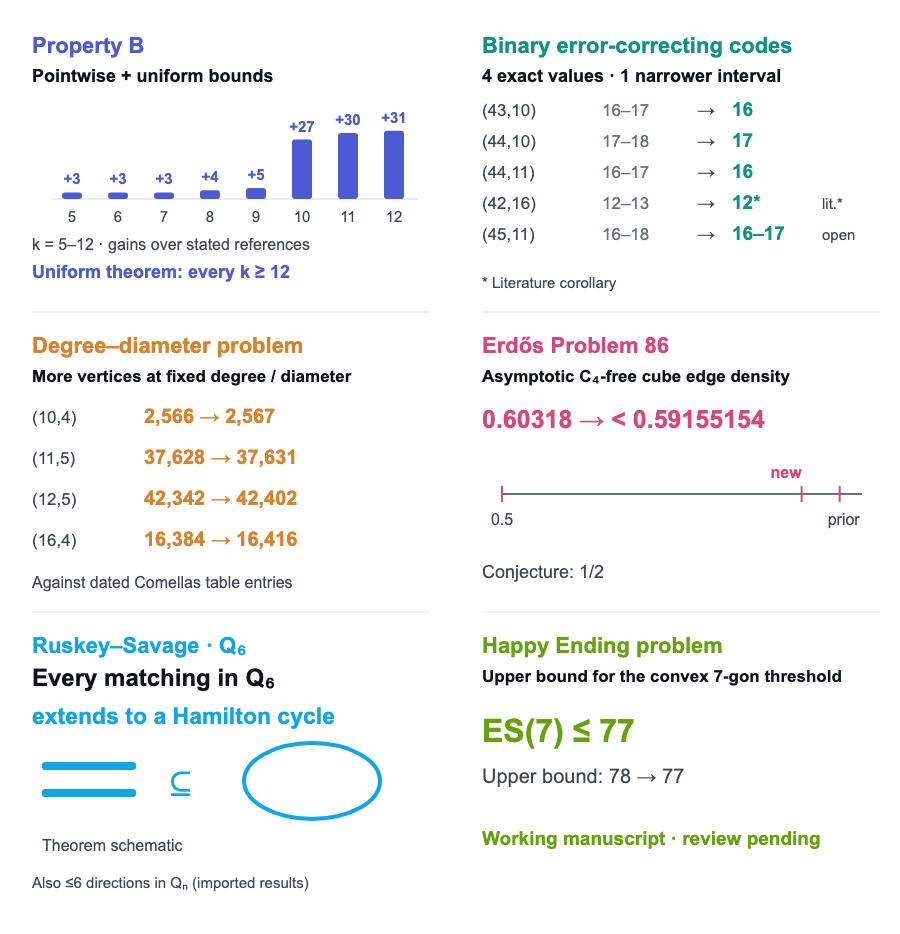
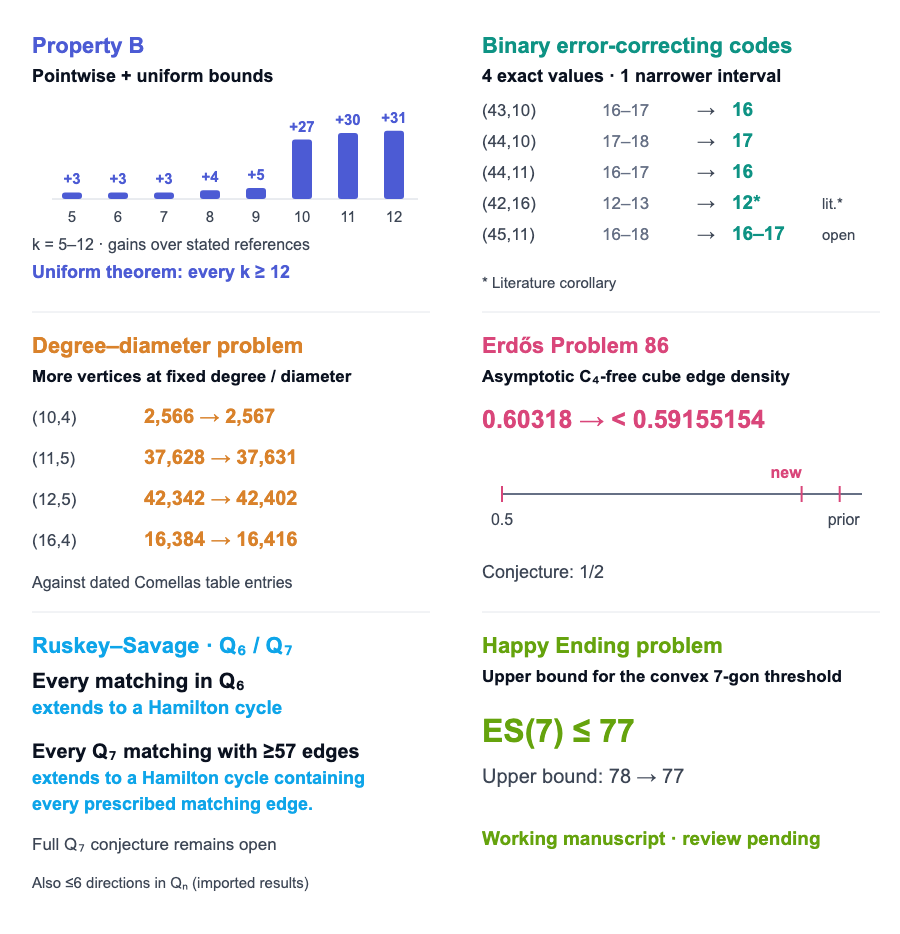
docs: refresh Q7 result overview and repair v5 evolution table

Changed region(s): [[0.0311, 0.6831, 0.4356, 0.9004], [0.0311, 0.9004, 0.3111, 0.9315]]

diff --git a/figures/mathrsi/results-overview/render.py b/figures/mathrsi/results-overview/render.py
@@ -40,13 +40,12 @@ def render(lang):
    t(X(.5),y+193,'0.5',16,anchor='middle');t(X(.59155154),y+146,'新 / new' if z else 'new',16,c,600,'end');t(X(.60318)+4,y+193,'参考' if z else 'prior',16,anchor='middle')
    t(x,y+246,'猜想值：1/2' if z else 'Conjecture: 1/2',18)
   elif key=='q6':
-   t(x,y+54,'Q₆ 中每一个匹配' if z else 'Every matching in Q₆',24,'#0B1220',600)
-   t(x,y+92,'均可扩展为 Hamilton 圈' if z else 'extends to a Hamilton cycle',23,c,650)
-   # theorem motif: matching inclusion, without a graph claiming universal evidence
-   rect(x+10,y+130,94,8,c);rect(x+10,y+157,94,8,c)
-   t(x+135,y+164,'⊆',42,c,500)
-   a.append(f'<ellipse cx="{x+280}" cy="{y+149}" rx="68" ry="38" fill="none" stroke="{c}" stroke-width="4"/>')
-   t(x+10,y+219,'定理示意' if z else 'Theorem schematic',16)
+   t(x,y+56,'Q₆ 中每一个匹配' if z else 'Every matching in Q₆',21,'#0B1220',600)
+   t(x,y+82,'均可扩展为 Hamilton 圈' if z else 'extends to a Hamilton cycle',19,c,600)
+   t(x,y+126,'Q₇ 中每个至少 57 边的匹配' if z else 'Every Q₇ matching with ≥57 edges',20,'#0B1220',600)
+   t(x,y+152,'均可扩展为 Hamilton 圈，' if z else 'extends to a Hamilton cycle containing',18,c,600)
+   t(x,y+178,'且保留匹配的每一条指定边。' if z else 'every prescribed matching edge.',18,c,600)
+   t(x,y+218,'完整 Q₇ 猜想仍开放' if z else 'Full Q₇ conjecture remains open',17)
    t(x,y+256,'亦含任意维 ≤6 方向推论（引用结果）' if z else 'Also ≤6 directions in Qₙ (imported results)',15)
   else:
    t(x,y+50,'凸七边形的强制阈值上界' if z else 'Upper bound for the convex 7-gon threshold',17,'#0B1220',550)

diff --git a/figures/mathrsi/results-overview/README.md b/figures/mathrsi/results-overview/README.md
@@ -17,7 +17,7 @@ Repository-relative source: `development/homepage-redesign-20261105/site/result-
 - ECC: five parameter rows preserve prior/result intervals. (42,16) is marked as literature corollary; (45,11) stays open. Case index: `case-studies/README.md#error-correcting-codes`.
 - DD: four dated Comellas comparisons. (10,4) checked2026-11-05; the other three accessed2026-11-03. A value table avoids exaggerating small gains with truncated bars. Details: homepage `dd-10-4.html` and `case-studies/degree-diameter/README.md`.
 - E86: density upper ceiling0.60318 to <0.59155154. Linear numberline0.5…0.61 marks the new/prior ceilings;1/2 remains conjectural. Source: `plugins/hypercube-extremal/archive/source/START_HERE.html`.
-- Q6: the universal matching-to-cycle statement is explicit; the inclusion motif is labelled theorem schematic. The≤6-direction consequence uses imported results. Source: `plugins/hypercube-hamilton/archive/source/Ruskey-Savage_Q6_研究报告.html`.
+- Q6 / Q7: every Q6 matching extends to a Hamilton cycle; every Q7 matching with at least 57 edges extends to a Hamilton cycle containing every prescribed matching edge. Full Q7 remains open. The ≤6-direction consequence uses imported results. Sources: `plugins/hypercube-hamilton/archive/source/Ruskey-Savage_Q6_研究报告.html` and `case-studies/ruskey-savage-q7/README.md`. Q7 research ran with v3 (local adaptation), and its methods feed v5; this graphic does not change the original verification scope.
 - HE:78→77 compares the same ES(7) upper threshold;77 is not claimed exact. Working-manuscript and review-pending status remain visible. Source: `case-studies/happy-ending/n7-20261103/figures/bounds.svg` and `case-studies/happy-ending/README.md`.
 
 This is presentation work, not new mathematical verification or changed proof acceptance. Link the full overview to the six-case index so detailed proof and verification scopes remain available.

diff --git a/development/README.md b/development/README.md
@@ -14,10 +14,9 @@ Two tracks evolve together: shared **Base behavior** and broader/deeper **domain
 | v3 | Working-set/full-domain/best separation, marked-object transport, finite universal certificates and explicit Lean-premise audits. | Upgraded ECC; added hypercube extremal, hypercube Hamilton and Happy Ending. [Changes](../docs/V3_CHANGES.md) · [Implementation](evolution/v3-20261104/EVOLUTION.md) |
 | v4 · historical release | Equality-chain structure, legal exchange and compatible witnesses at the original caller. | Happy Ending and DD deepening. [Changes](../docs/V4_CHANGES.md) · [Implementation](evolution/v4-20261108/EVOLUTION.md) · [Release](evolution/v4-20261108/RELEASE.md) |
 | v4 · later main maintenance | Mandatory global progress reassessment compares the original gap and total cost. | ECC node ownership, exclusion reuse, shared computations and parent coverage. [Base maintenance](evolution/v4-global-reassessment-20261108/EVOLUTION.md) · [ECC maintenance](evolution/ecc-node-v4-20261111/EVOLUTION.md) |
-
 | v5 · current on main | Controlled auxiliary choices, theorem reuse across known legal representations, and fixed/conditional finite-plan coverage. | Deeper hypercube Hamilton methods from Q7 research run with v3 (local adaptation). [Changes](../docs/V5_CHANGES.md) · [Q7 result and methods](../case-studies/ruskey-savage-q7/README.md) |
 
-Fixed v1/v2/v3/v4 tags preserve complete snapshots; later `main` maintenance is outside the fixed v4 tag. The [evolution workflow](../docs/EVOLUTION_WORKFLOW.md) explains how to make a scoped maintenance request.
+Fixed v1–v5 tags preserve complete snapshots; current `main` may include maintenance after the fixed v5 release. The [evolution workflow](../docs/EVOLUTION_WORKFLOW.md) explains how to make a scoped maintenance request.
 
 ## Validation and implementation
 
